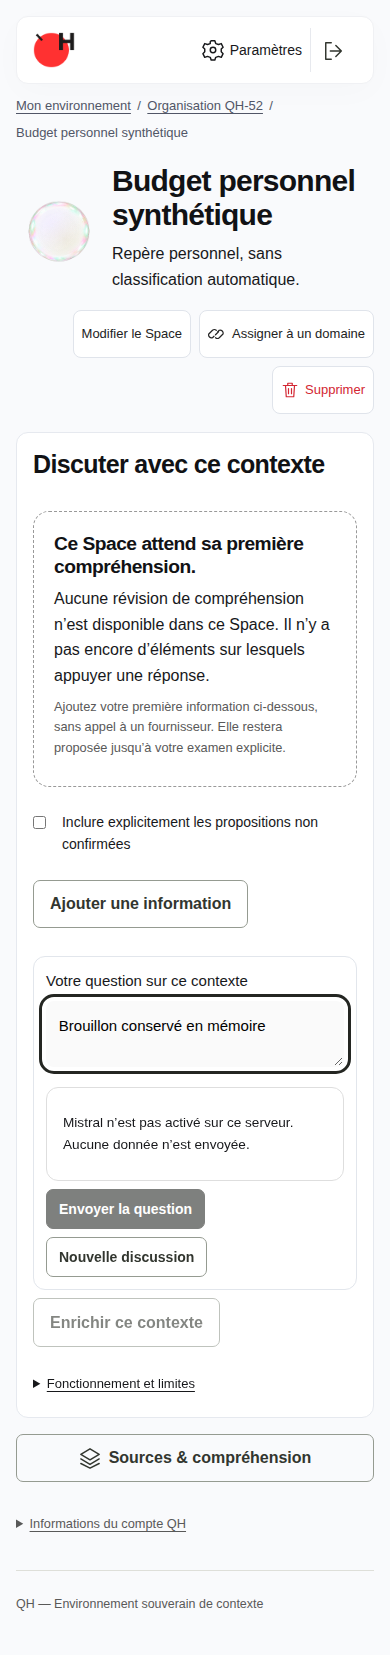
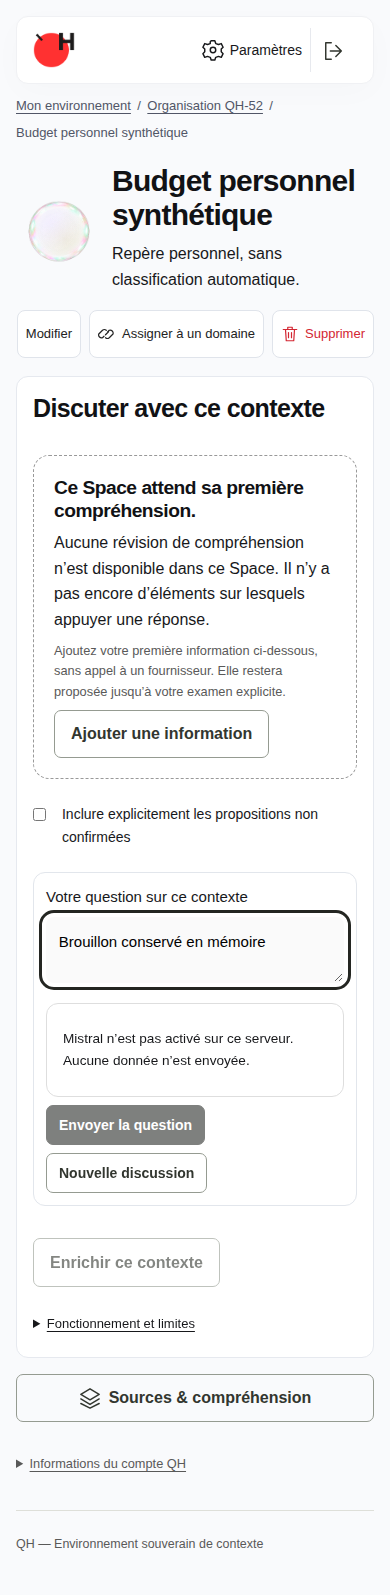
fix(QH-52): preserve gated landing and primary mobile composer

diff --git a/apps/web/src/Chat.tsx b/apps/web/src/Chat.tsx
@@ -18,6 +18,7 @@ export default function Chat({api,scope,onAnswersChange,onOpenProposal}:{api:QhA
   const [answers,setAnswers]=useState<ChatAnswer[]>([]);
   useEffect(()=>{onAnswersChange?.(answers);},[answers,onAnswersChange]);
   const [question,setQuestion]=useState('');
+  const [manualOpen,setManualOpen]=useState(0);
   const [loading,setLoading]=useState(false);
   const [providerMode,setProviderMode]=useState<'mock'|'mistral'>(offlineFixture?'mock':'mistral');
   const [providerSession,setProviderSession]=useState<string|null>(null);
@@ -79,7 +80,7 @@ export default function Chat({api,scope,onAnswersChange,onOpenProposal}:{api:QhA
         {!available.current && available.proposed && <div className="notice chat-availability"><p>Compréhension disponible : propositions non confirmées uniquement.</p>{proposalsExcluded && <p id="chat-availability-help">{proposalHelp}</p>}</div>}
         {noActive && <div className="chat-empty" role="note"><h3>{available.historical ? 'Une histoire à explorer, aucun élément actif pour discuter.' : 'Ce Space attend sa première compréhension.'}</h3>
           <p>{available.historical ? 'Des révisions sont conservées dans l’historique. Elles restent consultables dans Explorer la compréhension, mais ne sont pas transmises à la chat.' : 'Aucune révision de compréhension n’est disponible dans ce Space. Il n’y a pas encore d’éléments sur lesquels appuyer une réponse.'}</p>
-          <p className="small muted">Ajoutez votre première information ci-dessous, sans appel à un fournisseur. Elle restera proposée jusqu’à votre examen explicite.</p></div>}
+          <p className="small muted">Ajoutez votre première information ci-dessous, sans appel à un fournisseur. Elle restera proposée jusqu’à votre examen explicite.</p><button type="button" className="secondary" disabled={loading} onClick={()=>setManualOpen(n=>n+1)}>Ajouter une information</button></div>}
         <label className="chat-opt-in"><input type="checkbox" checked={includeProposed} disabled={loading} onChange={e=>{reset();setIncludeProposed(e.target.checked);}}/> Inclure explicitement les propositions non confirmées</label>
       </>}
       <div className="conversation-scroll" ref={viewport} role="log" aria-label="Conversation temporaire" aria-live="polite" aria-relevant="additions" aria-busy={loading} tabIndex={0} onScroll={()=>{const n=viewport.current;if(n&&!moving.current){follow.current=n.scrollHeight-n.clientHeight-n.scrollTop<48;if(follow.current)setUnread(false);}}}>
@@ -99,7 +100,6 @@ export default function Chat({api,scope,onAnswersChange,onOpenProposal}:{api:QhA
       </div>
       {unread&&<button type="button" className="new-response" onClick={()=>{follow.current=true;showLatest();}}>Voir la nouvelle réponse ↓</button>}
       <p className="generation-status" role="status">{loading?'Réponse en cours…':answers.length?'Réponse disponible. La discussion reste temporaire.':''}</p>
-      <ManualInformation api={api} scope={scope} disabled={loading} onOpen={onOpenProposal} onSaved={()=>{setAvailable(previous=>previous?{...previous,proposed:true,historical:false}:previous);setContextChanged(n=>n+1);}}/>
       <form className="chat-composer" onSubmit={e=>{void submit(e);}}>
         <label htmlFor="chat-question">Votre question sur ce contexte</label>
         <textarea id="chat-question" ref={questionField} value={question} maxLength={4096} onChange={e=>setQuestion(e.target.value)} aria-describedby={proposalsExcluded ? 'chat-availability-help' : undefined} disabled={loading || !available || messages.length>=8} rows={4} placeholder="Que souhaitez-vous savoir ?"/>
@@ -108,6 +108,7 @@ export default function Chat({api,scope,onAnswersChange,onOpenProposal}:{api:QhA
           <button type="button" className="secondary" disabled={loading} onClick={()=>{reset();if(providerMode==='mistral')setProviderFailure(v=>v+1);}}>Nouvelle discussion</button></div>
         {messages.length>=8 && <p>Limite de quatre questions atteinte. Commencez une nouvelle discussion dans ce même Space.</p>}
       </form>
+      <ManualInformation api={api} scope={scope} disabled={loading} openRequest={manualOpen} hideAction={noActive} onOpen={onOpenProposal} onSaved={()=>{setAvailable(previous=>previous?{...previous,proposed:true,historical:false}:previous);setContextChanged(n=>n+1);}}/>
       <EnrichConversation key={conversationId} api={api} scope={scope} conversationId={conversationId} turns={sourceTurns} disabled={loading} onOpen={onOpenProposal} onSaved={receipt=>{if(receipt.revision_ids.length){setAvailable(previous=>previous?{...previous,proposed:true,historical:false}:previous);setContextChanged(n=>n+1);}}}/>
       {sourceIndex!==null&&answers[sourceIndex]&&<SourcesPanel answer={answers[sourceIndex]} index={sourceIndex} onClose={()=>setSourceIndex(null)}/>}
       <details className="chat-help"><summary>Fonctionnement et limites</summary>

diff --git a/apps/web/src/ManualInformation.tsx b/apps/web/src/ManualInformation.tsx
@@ -1,12 +1,13 @@
-import {useRef,useState} from 'react';
+import {useEffect,useRef,useState} from 'react';
 import type {QhApi} from './api';
 import {apiMessage} from './api';
 import type {EnrichmentReceipt} from './EnrichConversation';
 import {Modal} from './SpaceActions';
 
-export default function ManualInformation({api,scope,disabled,onSaved,onOpen}:{api:QhApi;scope:string;disabled:boolean;onSaved:()=>void;onOpen?:(id:string)=>void}){
+export default function ManualInformation({api,scope,disabled,onSaved,onOpen,openRequest=0,hideAction=false}:{api:QhApi;scope:string;disabled:boolean;openRequest?:number;hideAction?:boolean;onSaved:()=>void;onOpen?:(id:string)=>void}){
  const [open,setOpen]=useState(false),[text,setText]=useState(''),[consent,setConsent]=useState(false),[busy,setBusy]=useState(false),[error,setError]=useState('');
  const [saved,setSaved]=useState<EnrichmentReceipt|null>(null);
+ useEffect(()=>{if(openRequest){setError('');setOpen(true);}},[openRequest]);
  const attempt=useRef<{text:string;payload:Parameters<QhApi['enrich']>[1]}|null>(null);
  async function save(){
   if(busy||!consent||!text.trim())return;
@@ -17,7 +18,7 @@ export default function ManualInformation({api,scope,disabled,onSaved,onOpen}:{a
   finally{setBusy(false);}
  }
  return <section className="manual-information" aria-label="Ajouter une information sans IA">
-  <button type="button" className="secondary" disabled={disabled||busy} onClick={()=>{setError('');setOpen(true);}}>Ajouter une information</button>
+  {!hideAction&&<button type="button" className="secondary" disabled={disabled||busy} onClick={()=>{setError('');setOpen(true);}}>Ajouter une information</button>}
   {saved&&<div role="status"><p>Votre information est conservée. Elle reste une proposition à vérifier ; rien n’est confirmé automatiquement.</p>{saved.revision_ids.map((id,i)=><button key={id} type="button" className="secondary" onClick={()=>onOpen?.(id)}>Examiner l’information {i+1}</button>)}</div>}
   {open&&<Modal title="Ajouter une information" onClose={()=>{if(!busy)setOpen(false);}}><form onSubmit={e=>{e.preventDefault();void save();}}>
    <p>Décrivez ce que vous souhaitez conserver dans ce contexte, même si la conversation est indisponible.</p>

diff --git a/apps/web/src/SpaceEditor.tsx b/apps/web/src/SpaceEditor.tsx
@@ -19,6 +19,6 @@ export default function SpaceEditor({space,api,state,onChanged}:{space:ContextSp
   }catch(e){setError(apiMessage(e)+' Le nom et la description sont enregistrés séparément. Rechargez avant de réessayer en cas de conflit.');}
   finally{setBusy(false);}
  }
- return <><button type="button" className="secondary" disabled={!state.value||state.busy} onClick={()=>{initial.current=state.value;setName(space.name);setDescription(state.value?.space_descriptions?.[space.id]??'');setError('');setOpen(true);}}>Modifier le Space</button>
+ return <><button type="button" className="secondary" aria-label="Modifier le Space" title="Modifier le Space" disabled={!state.value||state.busy} onClick={()=>{initial.current=state.value;setName(space.name);setDescription(state.value?.space_descriptions?.[space.id]??'');setError('');setOpen(true);}}>Modifier</button>
  {open&&<Modal title="Modifier le Space" onClose={()=>{if(!busy)setOpen(false);}}><form onSubmit={e=>{e.preventDefault();void save();}}><p>Ces repères personnels ne changent ni la compréhension ni les droits du Space.</p><label htmlFor="edit-space-name">Nom du Space</label><input id="edit-space-name" value={name} maxLength={256} required disabled={busy} onChange={e=>setName(e.target.value)}/><label htmlFor="edit-space-description">Description du Space</label><textarea id="edit-space-description" value={description} maxLength={500} disabled={busy} onChange={e=>setDescription(e.target.value)}/>{error&&<p role="alert">{error}</p>}<div className="actions"><button disabled={busy||!validName(name)}>Enregistrer le Space</button><button type="button" className="secondary" disabled={busy} onClick={()=>setOpen(false)}>Annuler</button></div></form></Modal>}</>;
 }

diff --git a/apps/web/tests/session.spec.ts b/apps/web/tests/session.spec.ts
@@ -54,3 +54,14 @@ test('QH-52 failed rotation and account changes fail closed; logout wins an in-f
  });
  expect(results).toEqual([{mode:'reused-refresh',rejected:true,state:'expired'},{mode:'different-account',rejected:true,state:'expired'},{mode:'logout-race',rejected:true,state:'signed-out'}]);
 });
+
+test('QH-52 legacy profile keeps its approved home landing until the development gate',async({page})=>{
+ await page.goto('/');
+ const result=await page.evaluate(async()=>{
+  const {createSession}=await import(String('/src/auth.ts'));const {User}=await import(String('/node_modules/.vite/deps/oidc-client-ts.js'));
+  history.replaceState(null,'','/oidc/callback');
+  const manager={events:{addAccessTokenExpired:()=>{}},clearStaleState:async()=>{},removeUser:async()=>{},signinRedirectCallback:async()=>new User({access_token:'synthetic',token_type:'Bearer',expires_at:Date.now()/1000+300,profile:{sub:'alice',iss:'issuer',aud:'client',exp:9999999999,iat:0},userState:'/context-spaces/00000000-0000-0000-0000-000000000001'})};
+  const s=createSession(manager as never,false);await s.initialize();return {state:s.snapshot(),route:location.pathname};
+ });
+ expect(result).toEqual({state:'authenticated',route:'/'});
+});

diff --git a/apps/web/src/auth.ts b/apps/web/src/auth.ts
@@ -88,7 +88,7 @@ export function createSession(manager = new UserManager(oidcSettings(window.loca
           // QH-52: an explicitly requested domain or Space survives reauthentication.
           // Ordinary login still lands home; never restore an implicit last Space.
           const target=safeReturnPath(user.state);
-          window.history.replaceState(null, '', target);
+          window.history.replaceState(null, '', renewalEnabled||target.startsWith('/domains/')?target:'/');
           window.dispatchEvent(new PopStateEvent('popstate'));
           const authenticatedAt=user.profile.auth_time;
           started=typeof authenticatedAt==='number'&&authenticatedAt>0&&authenticatedAt*1000<=Date.now()?authenticatedAt*1000:Date.now();

diff --git a/apps/web/src/styles.css b/apps/web/src/styles.css
@@ -454,3 +454,5 @@ main:has(>.environment-home) {padding-top:2rem;}
 .enrichment-turn input {flex:0 0 auto;margin-top:.3rem;}
 .enrichment-turn span {min-width:0;overflow-wrap:anywhere;}
 .enrichment-turn .chat-text {display:block;max-height:10rem;overflow:auto;}
+
+@media(max-width:850px){.signed-in .chat-composer{margin-top:12px;}}

diff --git a/docs/evidence/qh52-20261020/README.md b/docs/evidence/qh52-20261020/README.md
@@ -4,15 +4,16 @@ Real Chromium, native Keycloak26.4.7, production API composition, tmpfs PostgreS
 and native Neo4j; Mistral HTTP is simulated by the guarded test-only factory.
 All content and credentials are disposable fixtures. No live QH Space was written.
 
-Desktop1448×1086, mobile390×844, actual browser zoom200%, first literal information
+Desktop1448×1086, mobile390×844, CSS zoom200%, first literal information
 and expanded provider disclosure are retained with SHA256 in screenshots.json.
 The reduced450px keyboard viewport and full execution logs stay in the documented
 private archive .local-archive/qh52-20261020. A real device keyboard and native Mac
 password-save prompts are not tested.
 
-The screenshot run verifies first-information/metadata/isolation and renewal, but
-its later revocation-clock assertion failed; the corrected product-browser-8 targeted test PASS verifies actual SPA expiry,
-draft retention and logout. The single final hosted CI campaign supplies the combined verdict, linked from the PR
-and QH-52 Jira comments. No screenshot is evidence of real Mistral comprehension.
+Both product-final scenarios PASS, including actual SPA refresh/revocation,
+in-memory draft retention, explicit logout, metadata editing, literal first
+information, reopening and Bob denial. The native rotating Keycloak protocol test
+also PASS. Provider HTTP is simulated. The final hosted CI verdict is recorded on
+PR20 and QH-52 Jira; screenshots do not establish real Mistral comprehension.
 
 [Acceptance criteria and activation boundary](../../qh-52-stabilization.md).

diff --git a/docs/qh-52-stabilization.md b/docs/qh-52-stabilization.md
@@ -210,3 +210,21 @@ owner checks. Logout dispatches grant revocation with its current in-memory acce
 credential before clearing it; it cannot wait on or initiate a renewal. The focused
 logout/current-token and in-flight/account/rotation checks pass (3 tests/typecheck).
 No timeout, policy, ledger or provenance check was weakened.
+
+
+Final browser compatibility/layout correction: Space-route restoration stays behind
+the approved development profile; the unactivated legacy profile retains its prior
+home landing (domain deep links remain supported). Both profile-boundary unit checks
+and the original protected-login/reload acceptance pass. On mobile, the edit action
+is compact and first-information opens directly from the empty-Space guide; the
+manual authoring control for populated Spaces follows the primary composer.
+The original composer position assertion (<650px) passes unchanged. product-final
+then passes both product scenarios plus the actual rotating Keycloak protocol test;
+the retained screenshots now match that final source. Zoom evidence uses CSS zoom
+and the existing200% text-reflow regression, not a native Mac browser zoom gesture.
+
+The earlier84e2593 hosted pass verified785 native integration tests without skips,
+quality and OIDC. Its browser failures identified legacy-landing incompatibility
+and mobile control height; these were corrected and targeted before publication.
+The final review verdict requires all checks on the final PR head, not reuse of a
+failed or merely partial workflow result.
